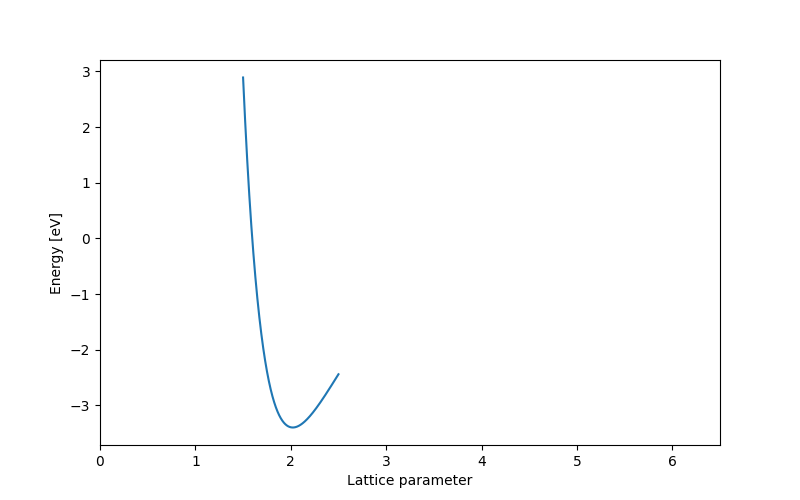
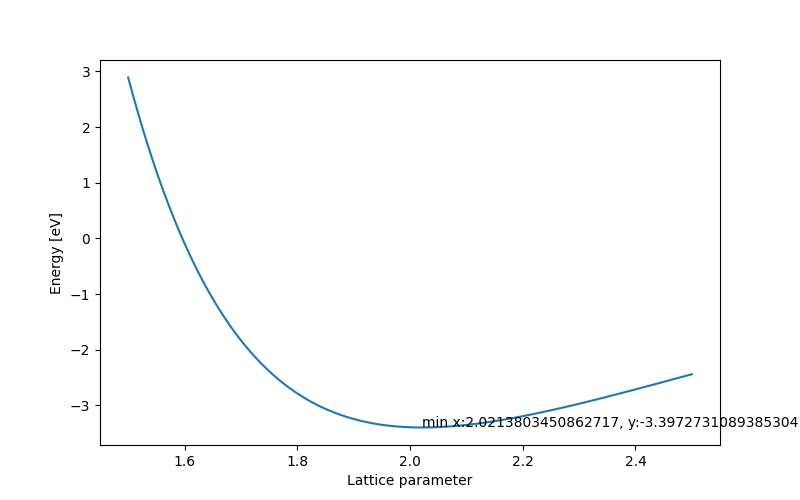
new plot

diff --git a/HW5/pT2.py b/HW5/pT2.py
@@ -7,7 +7,7 @@ data = np.genfromtxt("energy_v_lattice.txt", delimiter =',', skip_header = 1)
 fig = plt.figure(figsize = (8,5))
 ax = fig.add_subplot(1, 1, 1)
 ax.plot(data[:,0],data[:,1], label = 'energy vs Lattice parameter')
-ax.anotate((data[amin(data[:,1]),0],min(data[:,1])),f'min x:{data[amin(data[:,1]),0]}, y:{min(data[:,1])}')
+ax.annotate(f'min x:{data[np.argmin(data[:,1]),0]}, y:{np.min(data[:,1])}',(data[np.argmin(data[:,1]),0],np.min(data[:,1])))
 #ax.grid(True)
 ax.set_xlabel("Lattice parameter")
 ax.set_ylabel("Energy [eV]")
